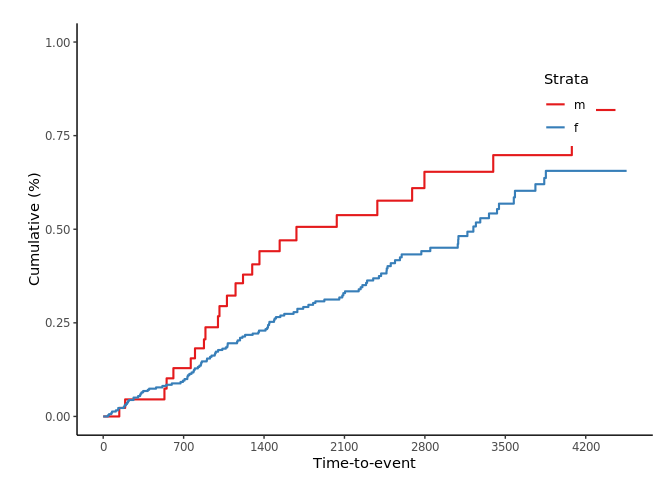
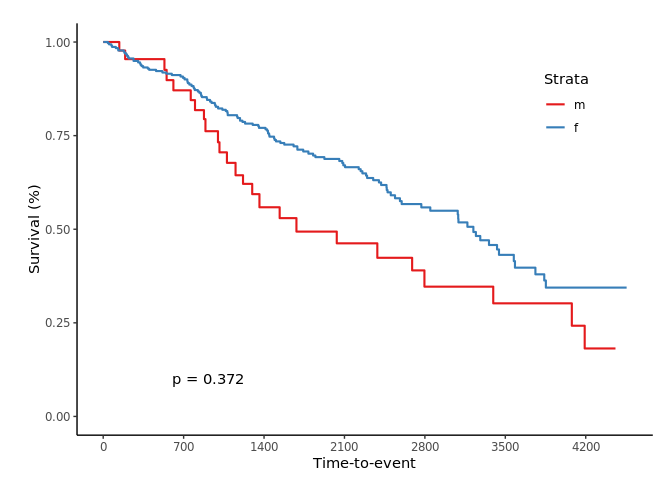
pval

diff --git a/docs/index.html b/docs/index.html
@@ -103,36 +103,40 @@
 <a class="sourceLine" id="cb2-6" data-line-number="6"><span class="co">#Plot the data</span></a>
 <a class="sourceLine" id="cb2-7" data-line-number="7"><span class="kw"><a href="reference/jskm.html">jskm</a></span>(fit)</a></code></pre></div>
 <p><img src="index_files/figure-html/unnamed-chunk-1-1.png" width="700"></p>
+<div class="sourceCode" id="cb3"><pre class="sourceCode r"><code class="sourceCode r"><a class="sourceLine" id="cb3-1" data-line-number="1"><span class="kw"><a href="reference/jskm.html">jskm</a></span>(fit, <span class="dt">table =</span> T, <span class="dt">pval =</span> T)</a></code></pre></div>
+<p><img src="index_files/figure-html/unnamed-chunk-1-2.png" width="700"></p>
 </div>
 <div id="cumulative-hazard-1--survival-probability" class="section level3">
 <h3 class="hasAnchor">
 <a href="#cumulative-hazard-1--survival-probability" class="anchor"></a>Cumulative hazard: 1- Survival probability</h3>
-<div class="sourceCode" id="cb3"><pre class="sourceCode r"><code class="sourceCode r"><a class="sourceLine" id="cb3-1" data-line-number="1"><span class="kw"><a href="reference/jskm.html">jskm</a></span>(fit, <span class="dt">ci =</span> T, <span class="dt">cumhaz =</span> T,  <span class="dt">mark =</span> F, <span class="dt">ylab =</span> <span class="st">"Cumulative hazard (%)"</span>)</a></code></pre></div>
+<div class="sourceCode" id="cb4"><pre class="sourceCode r"><code class="sourceCode r"><a class="sourceLine" id="cb4-1" data-line-number="1"><span class="kw"><a href="reference/jskm.html">jskm</a></span>(fit, <span class="dt">ci =</span> T, <span class="dt">cumhaz =</span> T,  <span class="dt">mark =</span> F, <span class="dt">ylab =</span> <span class="st">"Cumulative hazard (%)"</span>)</a></code></pre></div>
 <p><img src="index_files/figure-html/unnamed-chunk-2-1.png" width="700"></p>
 </div>
 <div id="weighted-kaplan-meier-plot---svykm-object-in-survey-package" class="section level3">
 <h3 class="hasAnchor">
 <a href="#weighted-kaplan-meier-plot---svykm-object-in-survey-package" class="anchor"></a>Weighted Kaplan-Meier plot - <code>svykm.object</code> in <strong>survey</strong> package</h3>
-<div class="sourceCode" id="cb4"><pre class="sourceCode r"><code class="sourceCode r"><a class="sourceLine" id="cb4-1" data-line-number="1"><span class="kw"><a href="https://www.rdocumentation.org/packages/base/topics/library">library</a></span>(survey)</a>
-<a class="sourceLine" id="cb4-2" data-line-number="2"><span class="kw"><a href="https://www.rdocumentation.org/packages/utils/topics/data">data</a></span>(pbc, <span class="dt">package=</span><span class="st">"survival"</span>)</a>
-<a class="sourceLine" id="cb4-3" data-line-number="3">pbc<span class="op">$</span>randomized &lt;-<span class="st"> </span><span class="kw"><a href="https://www.rdocumentation.org/packages/base/topics/with">with</a></span>(pbc, <span class="op">!</span><span class="kw"><a href="https://www.rdocumentation.org/packages/base/topics/NA">is.na</a></span>(trt) <span class="op">&amp;</span><span class="st"> </span>trt<span class="op">&gt;</span><span class="dv">0</span>)</a>
-<a class="sourceLine" id="cb4-4" data-line-number="4">biasmodel &lt;-<span class="st"> </span><span class="kw"><a href="https://www.rdocumentation.org/packages/stats/topics/glm">glm</a></span>(randomized<span class="op">~</span>age<span class="op">*</span>edema,<span class="dt">data=</span>pbc)</a>
-<a class="sourceLine" id="cb4-5" data-line-number="5">pbc<span class="op">$</span>randprob &lt;-<span class="st"> </span><span class="kw"><a href="https://www.rdocumentation.org/packages/stats/topics/fitted.values">fitted</a></span>(biasmodel)</a>
-<a class="sourceLine" id="cb4-6" data-line-number="6"></a>
-<a class="sourceLine" id="cb4-7" data-line-number="7">dpbc&lt;-<span class="kw"><a href="https://www.rdocumentation.org/packages/survey/topics/svydesign">svydesign</a></span>(<span class="dt">id=</span><span class="op">~</span><span class="dv">1</span>, <span class="dt">prob=</span><span class="op">~</span>randprob, <span class="dt">strata=</span><span class="op">~</span>edema, <span class="dt">data=</span><span class="kw"><a href="https://www.rdocumentation.org/packages/base/topics/subset">subset</a></span>(pbc,randomized))</a>
-<a class="sourceLine" id="cb4-8" data-line-number="8"></a>
-<a class="sourceLine" id="cb4-9" data-line-number="9">s1 &lt;-<span class="kw"><a href="https://www.rdocumentation.org/packages/survey/topics/svykm">svykm</a></span>(<span class="kw"><a href="https://www.rdocumentation.org/packages/survival/topics/Surv">Surv</a></span>(time,status<span class="op">&gt;</span><span class="dv">0</span>) <span class="op">~</span><span class="st"> </span><span class="dv">1</span>, <span class="dt">design=</span>dpbc)</a>
-<a class="sourceLine" id="cb4-10" data-line-number="10">s2 &lt;-<span class="kw"><a href="https://www.rdocumentation.org/packages/survey/topics/svykm">svykm</a></span>(<span class="kw"><a href="https://www.rdocumentation.org/packages/survival/topics/Surv">Surv</a></span>(time,status<span class="op">&gt;</span><span class="dv">0</span>) <span class="op">~</span><span class="st"> </span>sex, <span class="dt">design=</span>dpbc)</a>
-<a class="sourceLine" id="cb4-11" data-line-number="11"></a>
-<a class="sourceLine" id="cb4-12" data-line-number="12"><span class="kw"><a href="reference/svyjskm.html">svyjskm</a></span>(s1)</a></code></pre></div>
+<div class="sourceCode" id="cb5"><pre class="sourceCode r"><code class="sourceCode r"><a class="sourceLine" id="cb5-1" data-line-number="1"><span class="kw"><a href="https://www.rdocumentation.org/packages/base/topics/library">library</a></span>(survey)</a>
+<a class="sourceLine" id="cb5-2" data-line-number="2"><span class="kw"><a href="https://www.rdocumentation.org/packages/utils/topics/data">data</a></span>(pbc, <span class="dt">package=</span><span class="st">"survival"</span>)</a>
+<a class="sourceLine" id="cb5-3" data-line-number="3">pbc<span class="op">$</span>randomized &lt;-<span class="st"> </span><span class="kw"><a href="https://www.rdocumentation.org/packages/base/topics/with">with</a></span>(pbc, <span class="op">!</span><span class="kw"><a href="https://www.rdocumentation.org/packages/base/topics/NA">is.na</a></span>(trt) <span class="op">&amp;</span><span class="st"> </span>trt<span class="op">&gt;</span><span class="dv">0</span>)</a>
+<a class="sourceLine" id="cb5-4" data-line-number="4">biasmodel &lt;-<span class="st"> </span><span class="kw"><a href="https://www.rdocumentation.org/packages/stats/topics/glm">glm</a></span>(randomized<span class="op">~</span>age<span class="op">*</span>edema,<span class="dt">data=</span>pbc)</a>
+<a class="sourceLine" id="cb5-5" data-line-number="5">pbc<span class="op">$</span>randprob &lt;-<span class="st"> </span><span class="kw"><a href="https://www.rdocumentation.org/packages/stats/topics/fitted.values">fitted</a></span>(biasmodel)</a>
+<a class="sourceLine" id="cb5-6" data-line-number="6"></a>
+<a class="sourceLine" id="cb5-7" data-line-number="7">dpbc&lt;-<span class="kw"><a href="https://www.rdocumentation.org/packages/survey/topics/svydesign">svydesign</a></span>(<span class="dt">id=</span><span class="op">~</span><span class="dv">1</span>, <span class="dt">prob=</span><span class="op">~</span>randprob, <span class="dt">strata=</span><span class="op">~</span>edema, <span class="dt">data=</span><span class="kw"><a href="https://www.rdocumentation.org/packages/base/topics/subset">subset</a></span>(pbc,randomized))</a>
+<a class="sourceLine" id="cb5-8" data-line-number="8"></a>
+<a class="sourceLine" id="cb5-9" data-line-number="9">s1 &lt;-<span class="kw"><a href="https://www.rdocumentation.org/packages/survey/topics/svykm">svykm</a></span>(<span class="kw"><a href="https://www.rdocumentation.org/packages/survival/topics/Surv">Surv</a></span>(time,status<span class="op">&gt;</span><span class="dv">0</span>) <span class="op">~</span><span class="st"> </span><span class="dv">1</span>, <span class="dt">design =</span> dpbc)</a>
+<a class="sourceLine" id="cb5-10" data-line-number="10">s2 &lt;-<span class="kw"><a href="https://www.rdocumentation.org/packages/survey/topics/svykm">svykm</a></span>(<span class="kw"><a href="https://www.rdocumentation.org/packages/survival/topics/Surv">Surv</a></span>(time,status<span class="op">&gt;</span><span class="dv">0</span>) <span class="op">~</span><span class="st"> </span>sex, <span class="dt">design =</span> dpbc)</a>
+<a class="sourceLine" id="cb5-11" data-line-number="11"></a>
+<a class="sourceLine" id="cb5-12" data-line-number="12"><span class="kw"><a href="reference/svyjskm.html">svyjskm</a></span>(s1)</a></code></pre></div>
 <p><img src="index_files/figure-html/unnamed-chunk-3-1.png" width="700"></p>
-<div class="sourceCode" id="cb5"><pre class="sourceCode r"><code class="sourceCode r"><a class="sourceLine" id="cb5-1" data-line-number="1"><span class="kw"><a href="reference/svyjskm.html">svyjskm</a></span>(s2, <span class="dt">cumhaz =</span> T, <span class="dt">ylab =</span> <span class="st">"Cumulative (%)"</span>) </a></code></pre></div>
+<div class="sourceCode" id="cb6"><pre class="sourceCode r"><code class="sourceCode r"><a class="sourceLine" id="cb6-1" data-line-number="1"><span class="kw"><a href="reference/svyjskm.html">svyjskm</a></span>(s2, <span class="dt">pval =</span> T, <span class="dt">design =</span> dpbc)</a></code></pre></div>
 <p><img src="index_files/figure-html/unnamed-chunk-3-2.png" width="700"></p>
+<div class="sourceCode" id="cb7"><pre class="sourceCode r"><code class="sourceCode r"><a class="sourceLine" id="cb7-1" data-line-number="1"><span class="kw"><a href="reference/svyjskm.html">svyjskm</a></span>(s2, <span class="dt">cumhaz =</span> T, <span class="dt">ylab =</span> <span class="st">"Cumulative (%)"</span>) </a></code></pre></div>
+<p><img src="index_files/figure-html/unnamed-chunk-3-3.png" width="700"></p>
 <p>If you want to get <strong>confidence interval</strong>, you should apply <code>se = T</code> option to <code>svykm</code> object.</p>
-<div class="sourceCode" id="cb6"><pre class="sourceCode r"><code class="sourceCode r"><a class="sourceLine" id="cb6-1" data-line-number="1">s3 &lt;-<span class="st"> </span><span class="kw"><a href="https://www.rdocumentation.org/packages/survey/topics/svykm">svykm</a></span>(<span class="kw"><a href="https://www.rdocumentation.org/packages/survival/topics/Surv">Surv</a></span>(time,status<span class="op">&gt;</span><span class="dv">0</span>) <span class="op">~</span><span class="st"> </span>sex, <span class="dt">design=</span>dpbc, <span class="dt">se =</span> T)</a>
-<a class="sourceLine" id="cb6-2" data-line-number="2"><span class="kw"><a href="reference/svyjskm.html">svyjskm</a></span>(s3)</a></code></pre></div>
+<div class="sourceCode" id="cb8"><pre class="sourceCode r"><code class="sourceCode r"><a class="sourceLine" id="cb8-1" data-line-number="1">s3 &lt;-<span class="st"> </span><span class="kw"><a href="https://www.rdocumentation.org/packages/survey/topics/svykm">svykm</a></span>(<span class="kw"><a href="https://www.rdocumentation.org/packages/survival/topics/Surv">Surv</a></span>(time,status<span class="op">&gt;</span><span class="dv">0</span>) <span class="op">~</span><span class="st"> </span>sex, <span class="dt">design=</span>dpbc, <span class="dt">se =</span> T)</a>
+<a class="sourceLine" id="cb8-2" data-line-number="2"><span class="kw"><a href="reference/svyjskm.html">svyjskm</a></span>(s3)</a></code></pre></div>
 <p><img src="index_files/figure-html/unnamed-chunk-4-1.png" width="700"></p>
-<div class="sourceCode" id="cb7"><pre class="sourceCode r"><code class="sourceCode r"><a class="sourceLine" id="cb7-1" data-line-number="1"><span class="kw"><a href="reference/svyjskm.html">svyjskm</a></span>(s3, <span class="dt">ci =</span> F)</a></code></pre></div>
+<div class="sourceCode" id="cb9"><pre class="sourceCode r"><code class="sourceCode r"><a class="sourceLine" id="cb9-1" data-line-number="1"><span class="kw"><a href="reference/svyjskm.html">svyjskm</a></span>(s3, <span class="dt">ci =</span> F)</a></code></pre></div>
 <p><img src="index_files/figure-html/unnamed-chunk-4-2.png" width="700"></p>
 </div>
 </div>

diff --git a/docs/news/index.html b/docs/news/index.html
@@ -122,7 +122,8 @@
 <h2 class="hasAnchor">
 <a href="#update" class="anchor"></a>Update</h2>
 <ul>
-<li>Add <strong>ci</strong> option to <code>svykm</code>.</li>
+<li><p>Add <strong>ci</strong> option to <code>svyjskm</code>.</p></li>
+<li><p>Get <strong>p-value</strong> without <strong>design</strong> option in <code>svyjskm</code></p></li>
 </ul>
 </div>
 </div>

diff --git a/README.md b/README.md
@@ -45,6 +45,12 @@ jskm(fit)
 
 ![](README_files/figure-gfm/unnamed-chunk-1-1.png)<!-- -->
 
+``` r
+jskm(fit, table = T, pval = T)
+```
+
+![](README_files/figure-gfm/unnamed-chunk-1-2.png)<!-- -->
+
 ### Cumulative hazard: 1- Survival probability
 
 ``` r
@@ -64,8 +70,8 @@ pbc$randprob <- fitted(biasmodel)
 
 dpbc<-svydesign(id=~1, prob=~randprob, strata=~edema, data=subset(pbc,randomized))
 
-s1 <-svykm(Surv(time,status>0) ~ 1, design=dpbc)
-s2 <-svykm(Surv(time,status>0) ~ sex, design=dpbc)
+s1 <-svykm(Surv(time,status>0) ~ 1, design = dpbc)
+s2 <-svykm(Surv(time,status>0) ~ sex, design = dpbc)
 
 svyjskm(s1)
 ```
@@ -73,10 +79,16 @@ svyjskm(s1)
 ![](README_files/figure-gfm/unnamed-chunk-3-1.png)<!-- -->
 
 ``` r
-svyjskm(s2, cumhaz = T, ylab = "Cumulative (%)") 
+svyjskm(s2, pval = T, design = dpbc)
 ```
 
 ![](README_files/figure-gfm/unnamed-chunk-3-2.png)<!-- -->
+
+``` r
+svyjskm(s2, cumhaz = T, ylab = "Cumulative (%)") 
+```
+
+![](README_files/figure-gfm/unnamed-chunk-3-3.png)<!-- -->
 
 If you want to get **confidence interval**, you should apply `se = T`
 option to `svykm` object.

diff --git a/NEWS.md b/NEWS.md
@@ -2,7 +2,9 @@
 
 ## Update
 
-* Add **ci** option to `svykm`.
+* Add **ci** option to `svyjskm`.
+
+* Get **p-value** without **design** option in `svyjskm`
 
 # jskm 0.2.2
 
